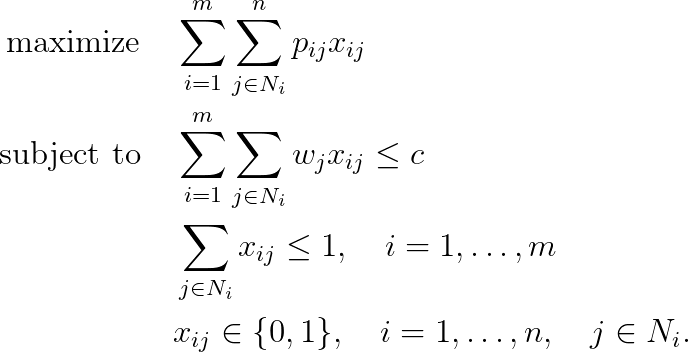
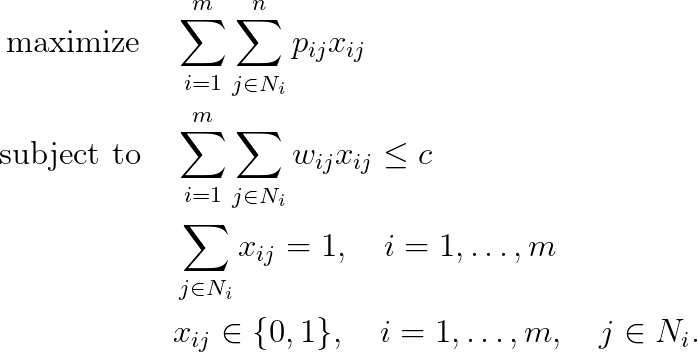
Create 09-multiple-choice-knapsack-problem

diff --git a/09-multiple-choice-knapsack-problem/problem.tex b/09-multiple-choice-knapsack-problem/problem.tex
@@ -1,7 +1,8 @@
 \begin{align*}
 \text{maximize} \quad & \sum_{i=1}^m \sum_{j \in N_i}^n p_{ij} x_{ij} \\
-\text{subject to} \quad & \sum_{i=1}^m \sum_{j \in N_i} w_j x_{ij} \leq c \\
-& \sum_{j \in N_i} x_{ij} \leq 1, \quad i = 1, \ldots, m \\
-& x_{ij} \in \lbrace 0, 1 \rbrace, \quad i = 1, \ldots, n, \quad j \in N_i.
+\text{subject to} \quad & \sum_{i=1}^m \sum_{j \in N_i} w_{ij} x_{ij} \leq c \\
+& \sum_{j \in N_i} x_{ij} = 1, \quad i = 1, \ldots, m \\
+& x_{ij} \in \lbrace 0, 1 \rbrace, \quad i = 1, \ldots, m, \quad j \in N_i.
 \end{align*}
+
 

diff --git a/07-multiple-knapsack-problem/problem.tex b/07-multiple-knapsack-problem/problem.tex
@@ -2,7 +2,7 @@
 \text{maximize} \quad & \sum_{i=1}^m \sum_{j=1}^n p_j x_{ij} \\
 \text{subject to} \quad & \sum_{j=1}^n w_j x_{ij} \leq c_i \quad i = 1, \ldots, m \\
 & \sum_{i=1}^m x_{ij} \leq 1, \quad j = 1, \ldots, n \\
-& x_{ij} \in \lbrace 0, 1 \rbrace, \quad j = 1, \ldots,n, \quad i = 1, \ldots, n,
+& x_{ij} \in \lbrace 0, 1 \rbrace, \quad j = 1, \ldots,m, \quad i = 1, \ldots, n,
 \end{align*}
 
 
